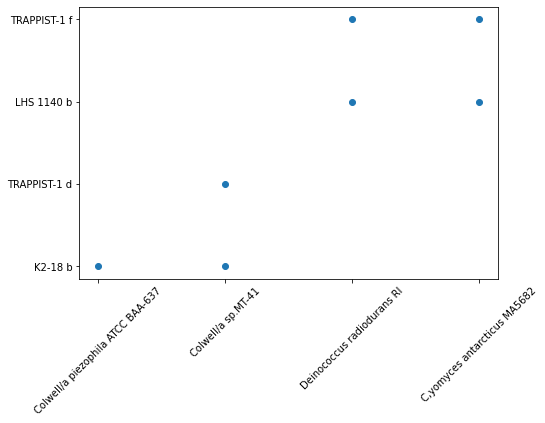
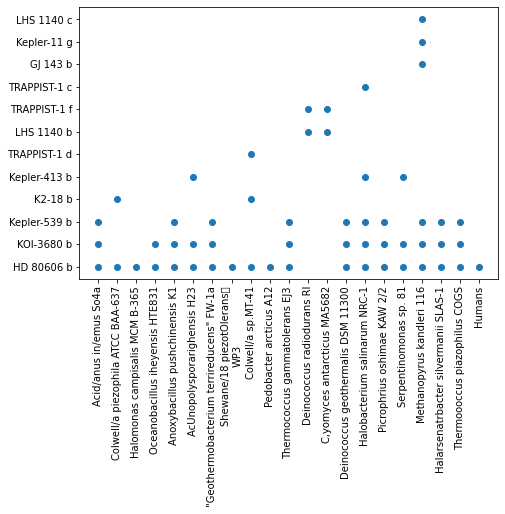
Final Commit

diff --git a/README.md b/README.md
@@ -58,7 +58,32 @@ Plot all the planets with their sun (its habitable zones) and planet orbits.
 
 ---
 
+
+
 #### <u>Step 1:</u>
+After the analysis from hypothesis one, use all potentially habitable planets to identify extremophiles that can survive extreme temperatures, pressures, and radiation respectively.
+
+#### <u>Step 2:</u>
+Plotting all surviving Extremophiles 
+
+##### Extremophiles surviving extreme temperatures
+
+![](https://github.com/Saahil87/2021Fall_finals/blob/main/visualizations_files/visualizations_21_0.png?raw=true)
+
+##### Extremophiles surviving extreme pressures
+
+![](https://github.com/Saahil87/2021Fall_finals/blob/main/visualizations_files/visualizations_23_0.png?raw=true)
+
+##### Extremophiles survivng extreme radiation
+
+![](https://github.com/Saahil87/2021Fall_finals/blob/main/visualizations_files/visualizations_25_0.png?raw=true)
+
+#### <u>Step 3:</u>
+Identifying overlap between all survivng extremophiles obtained in step 1
+
+![](https://github.com/Saahil87/2021Fall_finals/blob/main/visualizations_files/visualizations_30_0.png?raw=true)
+
+
 
 
 [1] Habitable Zone - the orbital region around a star in which an Earth-like planet can possess liquid water on its surface and possibly support life.
